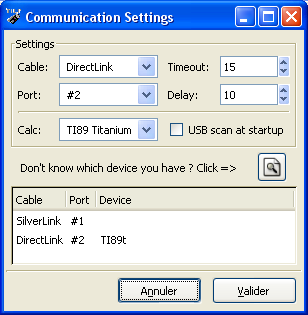
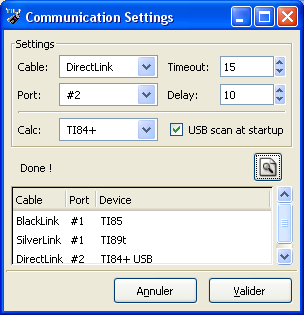
Use ticalcs_probe instead of the previous code (easier & clearer) for full probing.
git-svn-id: http://svn.tilp.info/repos/tilp/tilp/trunk@2609 11ccfa89-a3ba-0310-a1af-c6a367506c11

diff --git a/src/tilp_device.c b/src/tilp_device.c
@@ -211,7 +211,23 @@ int tilp_device_probe_all(int ***result)
 
 			if(!array[cable][port])
 				continue;
-			
+
+#if 1
+			err = ticalcs_probe(cable, port, &calc, !0);
+			if(err)
+			{
+				array[cable][port] = CALC_NONE;
+				continue;
+			}
+			array[cable][port] = calc;
+
+			s = g_strdup_printf("Found: %s on %s:%s", 
+				ticalcs_model_to_string(calc),
+				ticables_model_to_string(cable),
+				ticables_port_to_string(port));
+			tilp_info(s);
+			g_free(s);
+#else
 			handle = ticables_handle_new(cable, port);
 			ticables_options_set_timeout(handle, 10);
 
@@ -253,6 +269,7 @@ int tilp_device_probe_all(int ***result)
 reloop:
 			ticables_cable_close(handle);
 			ticables_handle_del(handle);
+#endif
 		}
 	}
 

diff --git a/src/tilp_version.h b/src/tilp_version.h
@@ -28,13 +28,13 @@
 */
 
 #ifdef __WIN32__
-# define TILP_VERSION "0.18"		// For Win32
+# define TILP_VERSION "0.20"		// For Win32
 #else
 # define TILP_VERSION VERSION
 #endif
 #define TILP_REQUIRES_LIBCONV_VERSION	"0.0.3"
 #define TILP_REQUIRES_LIBFILES_VERSION	"0.2.0"
 #define TILP_REQUIRES_LIBCABLES_VERSION	"0.1.0"
-#define TILP_REQUIRES_LIBCALCS_VERSION 	"0.2.2"
+#define TILP_REQUIRES_LIBCALCS_VERSION 	"0.2.4"
 
 #endif
